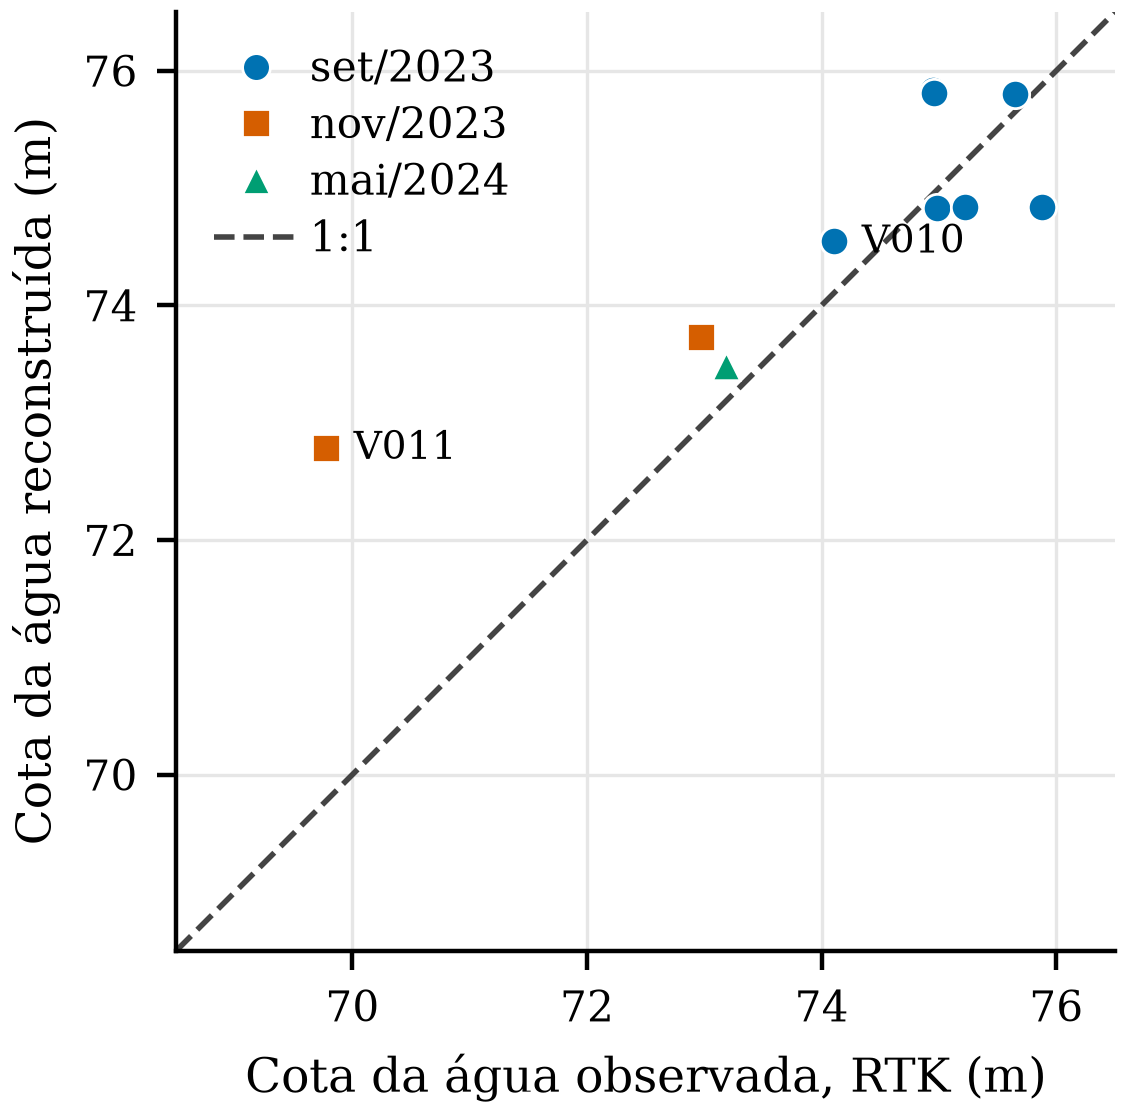
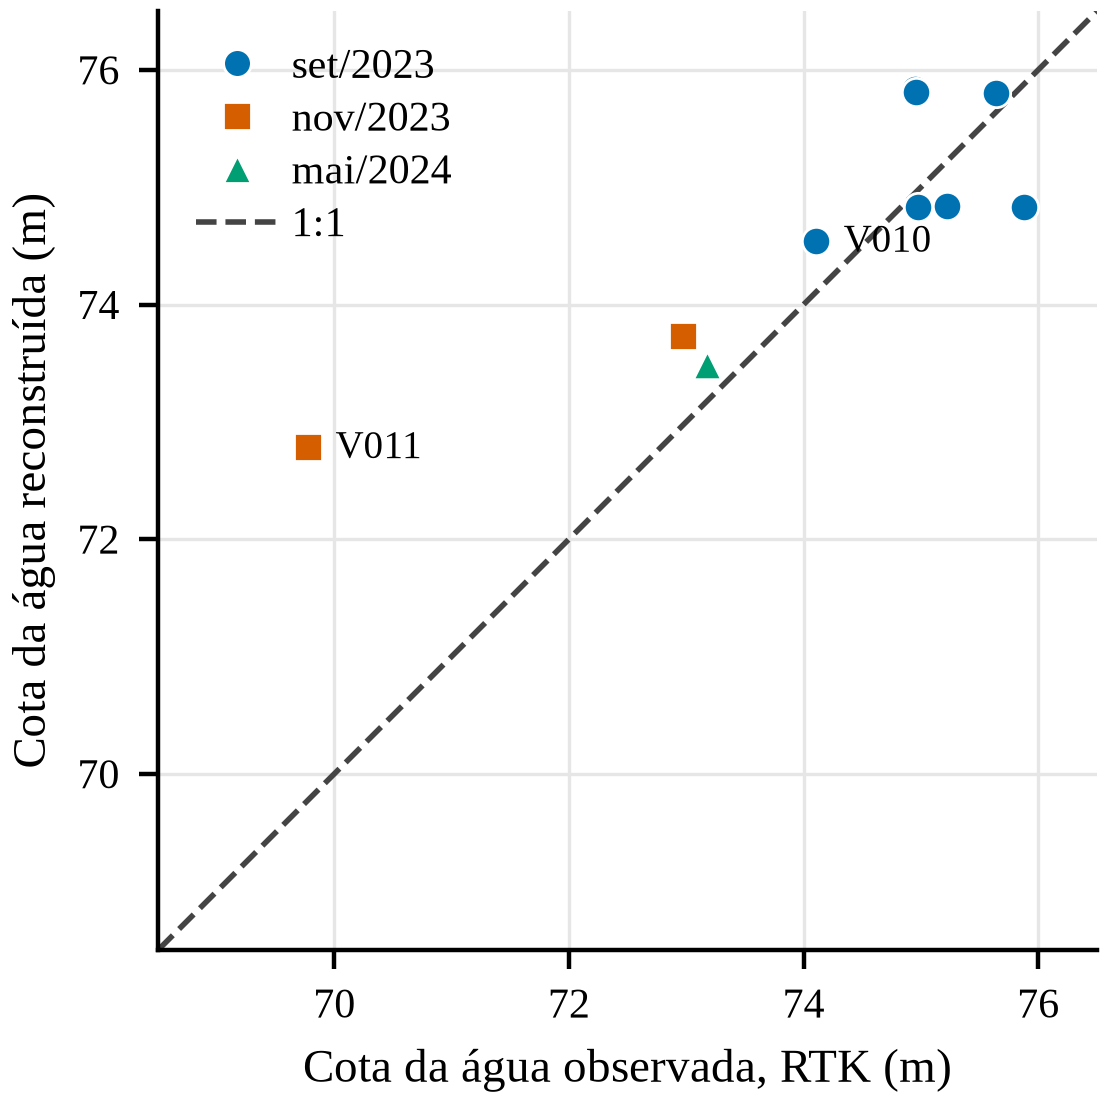
Gráficos separados com a fonte das demais figuras e a borda com sinal
Os gráficos separados passam a usar Liberation Serif (métrica da Times New
Roman), como o mapa e o diagnóstico. Na distância à borda, o RTK fora da
mancha (sinal de e_s) aparece cheio e a meia célula (2,5 m) pontilhada; no
gráfico |e_d| × |e_s|, os rótulos dizem "o terreno RTK aumenta/reduz |e|" e o
ponto de mai/2024 sai de cima do eixo.

Claude-Session: https://claude.ai/code/session_016cd6a7VXHqEXihC1peai7E

diff --git a/pesquisas/validacao-campo-hand-santa-tereza/figuras_separadas.py b/pesquisas/validacao-campo-hand-santa-tereza/figuras_separadas.py
@@ -3,7 +3,8 @@
 """Gráficos do manuscrito separados, um por arquivo, para escolher quais ficam.
 
 Cada gráfico tem largura de uma coluna do SBSR (8,6 cm) e o mesmo estilo da Figura 2
-da versão no Google Docs (DejaVu Serif, cores por evento, linha 1:1 tracejada).
+da versão no Google Docs (cores por evento, linha 1:1 tracejada), com a mesma fonte serifada (Liberation Serif,
+métrica igual à Times New Roman) das figuras do mapa e do diagnóstico.
 
   fig_sep_2_profundidade_v.png      profundidade observada × estimada, V (n = 13)
   fig_sep_3_cota_agua_v_rtk.png     cota da água observada (RTK) × reconstruída, V com RTK (n = 10)
@@ -44,11 +45,11 @@ EVENTOS = {
     "2024-05": dict(rot="mai/2024", cor=VERDE, mk="^"),
 }
 plt.rcParams.update({
-    "font.family": "DejaVu Serif", "font.size": 8, "axes.labelsize": 8.5, "xtick.labelsize": 7.5,
+    "font.family": "Liberation Serif", "font.size": 8, "axes.labelsize": 8.5, "xtick.labelsize": 7.5,
     "ytick.labelsize": 7.5, "legend.fontsize": 7.5, "legend.frameon": False, "axes.linewidth": 0.8,
     "axes.spines.top": False, "axes.spines.right": False, "axes.grid": True, "grid.color": "#e6e6e6",
     "grid.linewidth": 0.6, "axes.axisbelow": True, "savefig.dpi": 400, "savefig.bbox": "tight",
-    "savefig.pad_inches": 0.03, "axes.formatter.use_locale": False, "mathtext.fontset": "dejavuserif",
+    "savefig.pad_inches": 0.03, "axes.formatter.use_locale": False, "mathtext.fontset": "stix",
 })
 
 
@@ -126,15 +127,20 @@ def fig_borda_h(d):
     h = d[d.tipo == "limite"].sort_values("id")
     y = np.arange(len(h))[::-1]
     fig, ax = plt.subplots(figsize=(LARG, LARG * 0.72))
+    fora = (h.erro_cota_rtk_m < 0).to_numpy()  # pelo sinal de e_s: abaixo da superfície d'água do HAND
     for yi, (_, r) in zip(y, h.iterrows()):
         ax.plot([r.erro_h_cel_m, r.erro_h_rtk_m], [yi, yi], color="#a6a6a6", lw=1, zorder=1)
+    ax.axvline(2.5, color=CINZA, ls=":", lw=0.9, zorder=0)
+    ax.text(2.6, len(h) - 0.75, "meia célula", fontsize=6.5, color=CINZA, style="italic", va="bottom")
     ax.scatter(h.erro_h_cel_m, y, s=30, color=AZUL, edgecolor="white", linewidth=0.5, zorder=3, label="Celular")
-    ax.scatter(h.erro_h_rtk_m, y, s=26, marker="s", facecolor="white", edgecolor=VERMELHAO, linewidth=1.1,
-               zorder=3, label="RTK")
+    ax.scatter(h.erro_h_rtk_m[~fora], y[~fora], s=26, marker="s", facecolor="white", edgecolor=VERMELHAO,
+               linewidth=1.1, zorder=3, label="RTK, dentro da mancha")
+    ax.scatter(h.erro_h_rtk_m[fora], y[fora], s=26, marker="s", color=VERMELHAO, edgecolor=VERMELHAO,
+               linewidth=1.1, zorder=3, label="RTK, fora da mancha")
     ax.set_yticks(y, h.id)
-    ax.set(xlim=(0, 10), ylim=(-0.6, len(h) - 0.4), xlabel="Distância à borda da mancha (m)")
+    ax.set(xlim=(0, 10), ylim=(-0.6, len(h) + 0.1), xlabel="Distância à borda da mancha (m)")
     ax.grid(axis="y", visible=False)
-    ax.legend(loc="lower right", handletextpad=0.2)
+    ax.legend(loc="lower right", handletextpad=0.2, labelspacing=0.3)
     return salvar(fig, "fig_sep_4_borda_h.png")
 
 
@@ -151,9 +157,9 @@ def fig_erro_celular_rtk_v(d):
         ponto(ax, s.ed, s.es, ev)
     for _, r in v[v.id.isin(["V010", "V011"])].iterrows():
         ax.annotate(r.id, (r.ed, r.es), xytext=(5, -2), textcoords="offset points", fontsize=7)
-    ax.text(0.2, 1.95, "o RTK aumenta o erro", fontsize=7, color=CINZA, style="italic")
-    ax.text(1.7, 0.95, "o RTK reduz o erro", fontsize=7, color=CINZA, style="italic")
-    ax.set(xlim=(0, lim), ylim=(0, lim), aspect="equal", xlabel="|$e_d$|, terreno na posição do celular (m)",
+    ax.text(0.15, 1.95, "o terreno RTK aumenta |e|", fontsize=7, color=CINZA, style="italic")
+    ax.text(1.55, 0.95, "o terreno RTK reduz |e|", fontsize=7, color=CINZA, style="italic")
+    ax.set(xlim=(-0.1, lim), ylim=(-0.1, lim), aspect="equal", xlabel="|$e_d$|, terreno na posição do celular (m)",
            ylabel="|$e_s$|, terreno RTK (m)")
     virgula(ax)
     legenda_eventos(ax, EVENTOS, loc="upper left", handletextpad=0.3, labelspacing=0.35)
